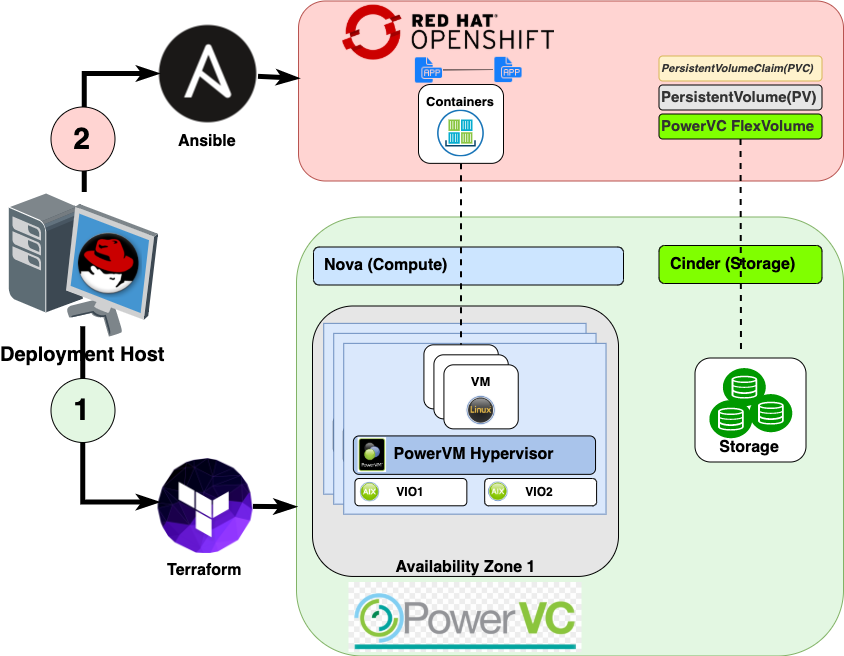
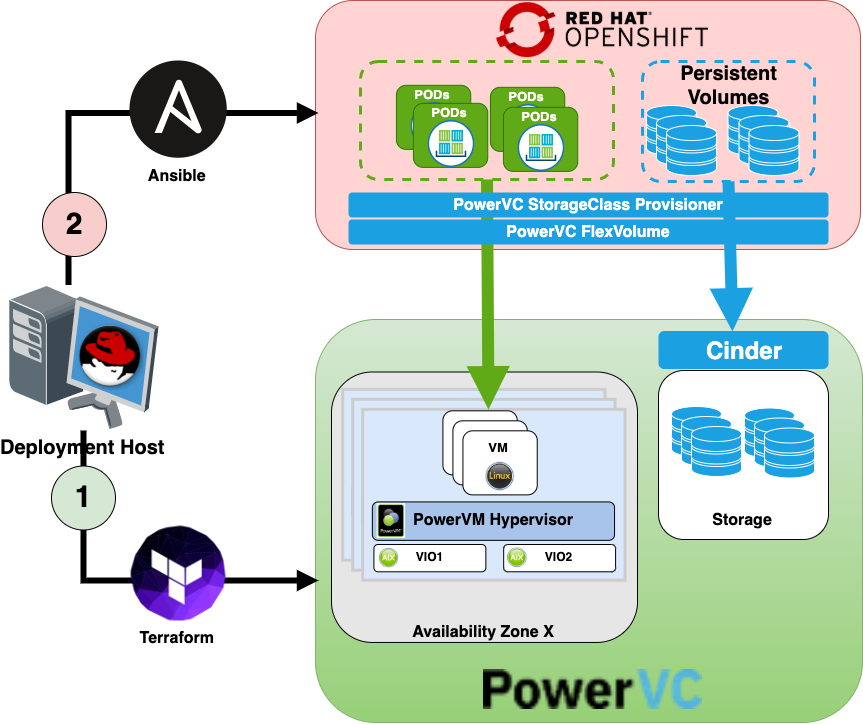
v1

diff --git a/terraform/powervc-openshift/README.md b/terraform/powervc-openshift/README.md
@@ -24,7 +24,7 @@ The following figure illustrates the deployment process for the 'OpenShift Conta
 
 ## Steps for deploying the OpenShift Container Platform
 
-### 1. Clone the repo [OpenShift Container Platform 3.11 on PowerVC](https://github.com/ppc64le/devops-automation.git):
+### Clone the repo [OpenShift Container Platform 3.11 on PowerVC](https://github.com/ppc64le/devops-automation.git):
 
 ```shell
 # Clone the repo
@@ -32,17 +32,18 @@ git clone git clone https://github.com/ppc64le/devops-automation.git
 cd devops-automation/powervc-openshift/
 ```
 
-### 2. Deploy PowerVC infrastructure:
+### Deploy PowerVC infrastructure:
 
-* Create terraform.tfvars file. There are 3 example files:
+* Create terraform.tfvars file. There are 4 example files:
     
     - **terraform_aio.tfvars.example**      - All In One Deployment example This will create a network and 1xVM for Master-Infra-Worker(applications) Node.
+    - **terraform_3nodes.example**          - 3 Nodes Deployment example This will create a network, 1xVMs for Master-Infra Nodes and 2xVMs Workers(Applications) Nodes.
     - **terraform_7nodes.tfvars.example**   - 7 Nodes Deployment example This will create a network, 3xVMs for Master-Infra Nodes, 3xVMs Workers(Applications) Nodes and 1xVM for LoadBalancer Node.
     - **terraform_10nodes.tfvars.example**  - 10 Nodes Deployment example This will create a network, 3xVMs for Master Nodes, 3xVMs for Infra Nodes, 3xVMs Workers(Applications) Nodes and 1xVM for LoadBalancer Node.
 
 
 
-**Note:** Master, Inafra and Worker VMs has an additional disk (/dev/mapper/DOCKER_DISK_1) for dockervg.<br>
+**Note:** Master, Inafra and Worker VMs has an additional disk (/dev/mapper/DOCKER_DISK_1) for docker-vg volume group.<br>
 **Note:** If you want to use an existing network, you need to remove the network.tf file before applying the configuration.
 
 
@@ -57,11 +58,12 @@ terraform plan
 terraform apply
 ```
 
-### 3. Install OpenShift Container Platform:
+### Install OpenShift Container Platform:
 
-* Create ansible inventory file. There are 3 example files:
+* Create ansible inventory file. There are 4 example files:
         
     - **aio.inv.example**       - This All-in-One (AIO) is not an officially supported OCP deployment. The AIO configuration is considered a testing or development environment. The Master, Infrastructure and Application Roles are deployed to a single node.
+    - **3nodes.inv.example**    - 1x Master-Infra Nodes and 2x Workers (Application Nodes).
     - **7nodes.inv.example**    - 3x Master-Infra Nodes, 3x Workers (Application Nodes) and 1 Load Balancer (HAProxy) Node.
     - **10nodes.inv.example**   - 3x Master Nodes, 3x Infra Nodes, 3x Workers (Application Nodes) and 1 Load Balancer (HAProxy) Node.
 
@@ -90,6 +92,73 @@ ansible-playbook -i <inventory_file> /usr/share/ansible/openshift-ansible/playbo
 
 ```shell
 ansible-playbook -i <inventory_file> /usr/share/ansible/openshift-ansible/playbooks/deploy_cluster.yml
+```
+
+### Steps for deploying the IBM PowerVC FlexVolume Driver
+
+```shell
+#Create a new project where you are deploying your PowerVC FlexVolume Driver:
+export NS=powervc-flexvoldrv
+oc login -u system:admin
+oc new-project $NS --description="PowerVC FlexVolume Driver for Containers" --display-name="PowerVC FlexVolume Driver"
+oc project $NS
+#Patch the project to clear the nodeSelector tag by entering the following command:
+oc patch namespace $NS -p '{"metadata": {"annotations": {"openshift.io/node-selector": ""}}}'
+#Assign the cluster-admin role to the $NS project’s default service account by entering the following command:
+oc adm policy add-cluster-role-to-user cluster-admin system:serviceaccount:$NS:default
+#Set the hostmount-anyuid source code control to the user root, or the user ID that was used to create the $NS project by entering the following command:
+oc adm policy add-scc-to-user hostmount-anyuid system:serviceaccount:$NS:default
+#Create a secret with the PowerVC username and password:
+oc create secret generic -n $NS powervc-secret \
+    --from-literal=OS_USERNAME=ocpadmin \
+    --from-literal=OS_PASSWORD=<password>
+#Download OpenShift template:
+wget https://raw.githubusercontent.com/IBM/power-openstack-k8s-volume-driver/master/template/ibm-powervc-k8s-volume-driver-template.yaml
+#Create an environment file:
+cat > ibm-powervc-k8s-volume-driver.env <<EOF_ibm-powervc-k8s-volume-driver.env
+OPENSTACK_IP_OR_HOSTNAME=X.X.X.X
+OPENSTACK_CRED_SECRET_NAME=powervc-secret
+OPENSTACK_CERT_DATA=-----BEGIN CERTIFICATE----- .... -----END CERTIFICATE-----
+OPENSTACK_PROJECT_NAME=ocp-project
+IMAGE_PROVISIONER_REPO=ibmcom/power-openstack-k8s-volume-provisioner
+IMAGE_PROVISIONER_TAG=1.0.2
+IMAGE_FLEX_VOLUME_REPO=ibmcom/power-openstack-k8s-volume-flex
+IMAGE_FLEX_VOLUME_TAG=1.0.2
+SECURITY_SERVICE_ACCOUNT_NAME=default
+EOF_ibm-powervc-k8s-volume-driver.env
+#Deploy the PowerVC FlexVolume Driver application from template using environment file:
+oc process -f ibm-powervc-k8s-volume-driver-template.yaml --param-file=ibm-powervc-k8s-volume-driver.env |  oc create -f -
+#Verify the deployment:
+oc get pod
+```
+
+### Creating the Persistent Storage for the Registry
+
+```shell
+#Create Persistent Volume Claim:
+oc login -u system:admin
+oc project default
+cat > registry-pvc.yml <<EOF_/registry-pvc.yml
+kind: PersistentVolumeClaim
+apiVersion: v1
+metadata:
+  name: registry-pvc
+spec:
+  accessModes:
+    - ReadWriteOnce
+  resources:
+    requests:
+      storage: 256Gi
+EOF_/registry-pvc.yml
+oc create -f registry-pvc.yml
+oc get pvc
+oc get dc
+oc get pods
+oc set volume dc/docker-registry
+#Assign Persistent Volume Claim to the Registry:
+oc set volume dc/docker-registry --add --name=registry-storage -t pvc --claim-name=registry-pvc --mount-path=/registry --overwrite
+oc set volume dc/docker-registry
+oc get pod
 ```
 
 ## Steps for destroying the OpenShift Container Platform
